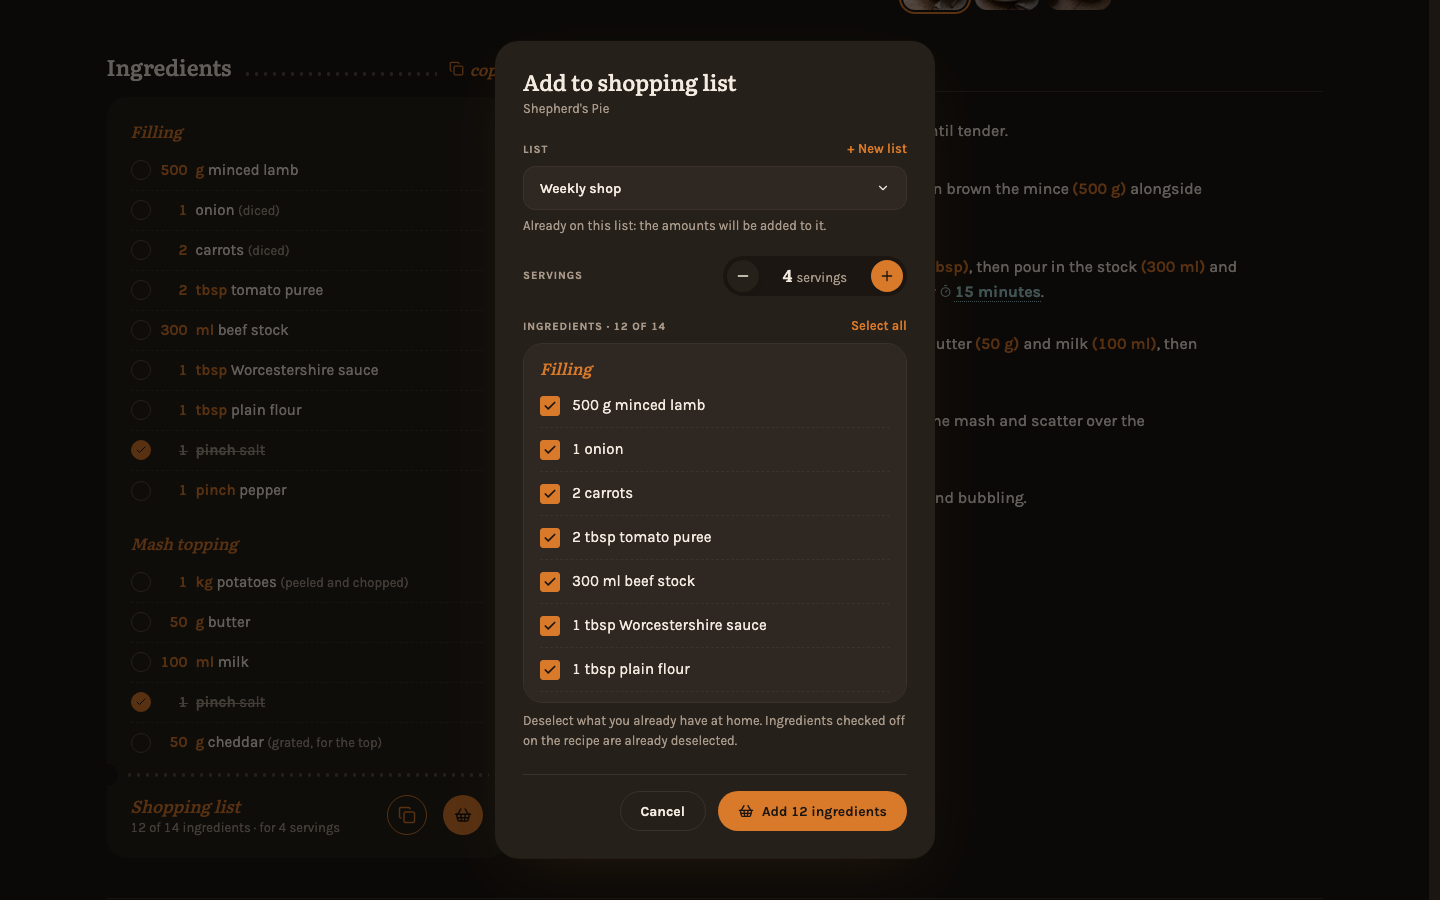
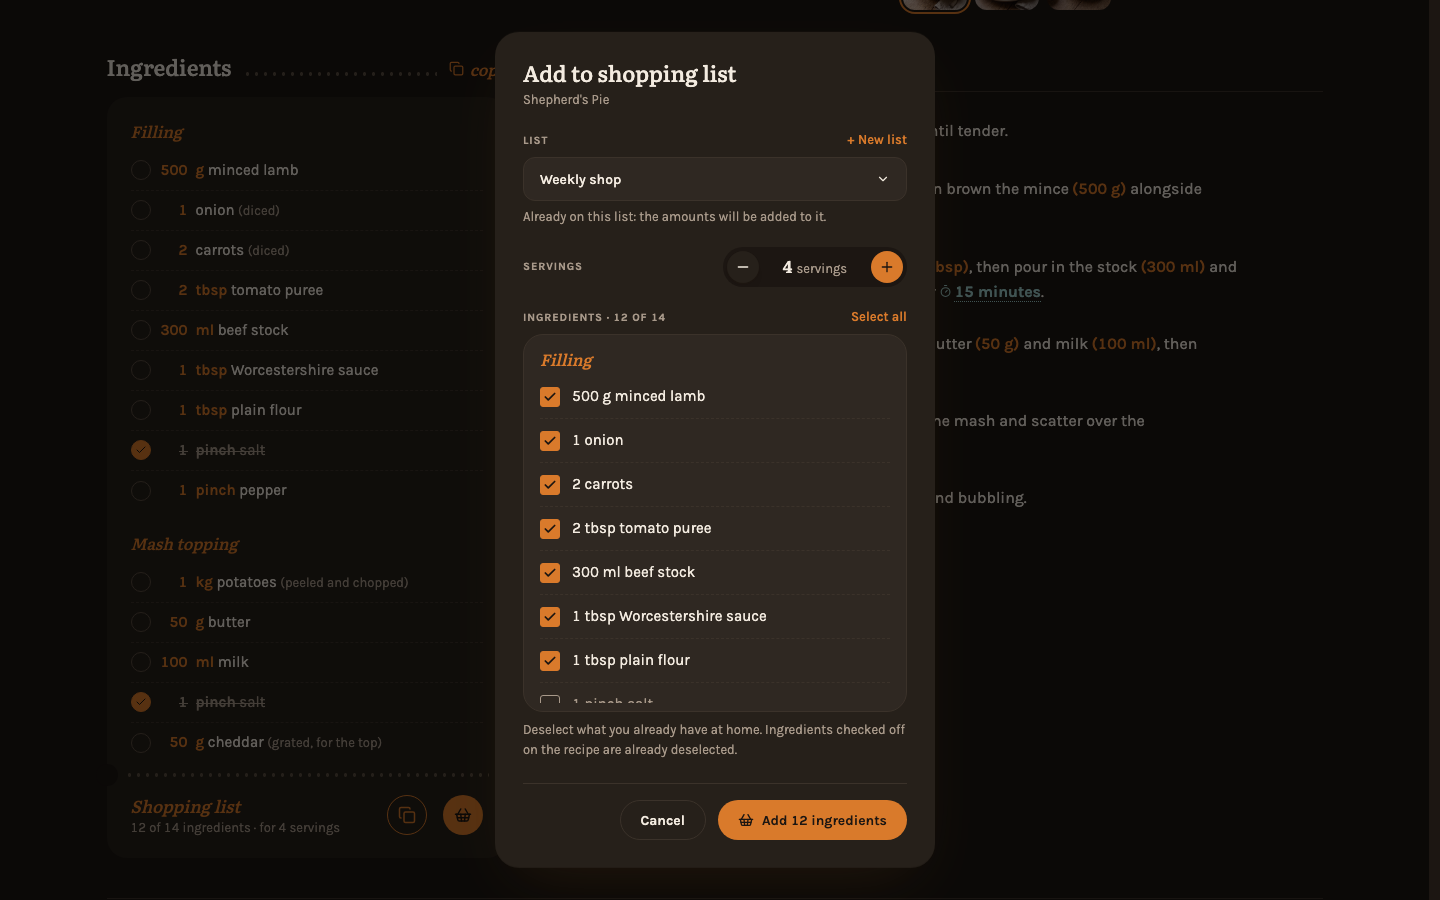
fix(ui): keep scrollbars inside rounded boxes
A rounded box that scrolled itself drew its scrollbar straight through
the corners. Dialogs, suggestion lists, the add-to-list ingredients and
the timer panels now clip in a rounded frame and scroll inside it.

diff --git a/frontend/src/lib/components/editor/TagInput.svelte b/frontend/src/lib/components/editor/TagInput.svelte
@@ -181,42 +181,48 @@
 			{/if}
 		</div>
 		{#if listboxOpen}
-			<ul
-				id="{id}-listbox"
-				role="listbox"
-				aria-label={m.editor_tag_suggestions()}
-				onpointerdown={(event) => {
-					// Keeps focus in the field so `onblur` doesn't commit the
-					// half-typed text before the option's handler runs. On the
-					// list itself, so its padding and scrollbar are covered too.
-					event.preventDefault();
-				}}
-				class="absolute inset-x-0 top-full z-30 mt-1 max-h-64 overflow-y-auto rounded-2xl border border-popover-border bg-popover p-1.5 shadow-dialog"
+			<!-- The frame is rounded and clips; the list scrolls inside its padding,
+			     so its scrollbar runs on the straight part of the edge (as SearchBar). -->
+			<div
+				class="absolute inset-x-0 top-full z-30 mt-1 overflow-hidden rounded-2xl border border-popover-border bg-popover px-1.5 py-2 shadow-dialog"
 			>
-				{#each rows as row, index (row.isNew ? `new:${row.name}` : row.name)}
-					<!-- The keys belong to the field, which drives the options through
-					     aria-activedescendant; the click is the pointer's way in. It
-					     waits for the click because a swipe through the list never
-					     produces one. -->
-					<!-- svelte-ignore a11y_click_events_have_key_events -->
-					<li
-						id="{id}-option-{index}"
-						role="option"
-						aria-selected={index === highlighted}
-						onclick={() => add(row.name)}
-						class="flex h-10 cursor-pointer items-center rounded-sm px-3 text-body-sm {index ===
-						highlighted
-							? 'bg-background font-semibold'
-							: ''}"
-					>
-						{#if row.isNew}
-							<span class="text-text-muted">{m.editor_tag_create({ name: row.name })}</span>
-						{:else}
-							{row.name}
-						{/if}
-					</li>
-				{/each}
-			</ul>
+				<ul
+					id="{id}-listbox"
+					role="listbox"
+					aria-label={m.editor_tag_suggestions()}
+					onpointerdown={(event) => {
+						// Keeps focus in the field so `onblur` doesn't commit the
+						// half-typed text before the option's handler runs. On the
+						// list itself, so its scrollbar is covered too.
+						event.preventDefault();
+					}}
+					class="max-h-60 overflow-y-auto overscroll-contain"
+				>
+					{#each rows as row, index (row.isNew ? `new:${row.name}` : row.name)}
+						<!-- The keys belong to the field, which drives the options through
+						     aria-activedescendant; the click is the pointer's way in. It
+						     waits for the click because a swipe through the list never
+						     produces one. -->
+						<!-- svelte-ignore a11y_click_events_have_key_events -->
+						<li
+							id="{id}-option-{index}"
+							role="option"
+							aria-selected={index === highlighted}
+							onclick={() => add(row.name)}
+							class="flex h-10 cursor-pointer items-center rounded-sm px-3 text-body-sm {index ===
+							highlighted
+								? 'bg-background font-semibold'
+								: ''}"
+						>
+							{#if row.isNew}
+								<span class="text-text-muted">{m.editor_tag_create({ name: row.name })}</span>
+							{:else}
+								{row.name}
+							{/if}
+						</li>
+					{/each}
+				</ul>
+			</div>
 		{/if}
 	</div>
 	{#if error}

diff --git a/frontend/src/lib/components/shopping/AddToListDialog.svelte b/frontend/src/lib/components/shopping/AddToListDialog.svelte
@@ -238,39 +238,42 @@
 					{allPicked() ? m.add_to_list_select_none() : m.add_to_list_select_all()}
 				</button>
 			</div>
-			<div
-				class="rounded-2xl border border-border bg-surface-elevated px-4 py-2 md:max-h-[40dvh] md:overflow-y-auto"
-			>
-				{#each groups as group, g (g)}
-					{#if group.name}
-						<h3
-							class="mt-3 mb-1 font-display text-[16px] font-medium text-primary italic first:mt-1"
-						>
-							{group.name}
-						</h3>
-					{/if}
-					{#each group.ingredients as ingredient, i (i)}
-						{@const key = pickKey(g, i)}
-						{@const on = picked.has(key)}
-						<label
-							class="flex min-h-11 cursor-pointer items-start gap-3 border-b border-dashed border-border py-2.5 text-body last:border-b-0 {on
-								? 'text-text'
-								: 'text-text-muted'}"
-						>
-							<span class="mt-[calc((1lh_-_20px)/2)] flex">
-								<Checkbox
-									bind:checked={() => on, (v) => (v ? picked.add(key) : picked.delete(key))}
-									label={ingredient.name}
-								/>
-							</span>
-							<span class="min-w-0 break-words">
-								{formatQuantityFor(ingredient.quantity, baseServings, chosen)}
-								{ingredient.unit ?? ''}
-								{ingredient.name}
-							</span>
-						</label>
+			<!-- The frame is rounded and clips; on a computer the ingredients scroll
+			     inside its padding, so the scrollbar runs on the straight part of the
+			     edge (as SearchBar's list). -->
+			<div class="overflow-hidden rounded-2xl border border-border bg-surface-elevated px-1.5 py-2">
+				<div class="px-2.5 md:max-h-[40dvh] md:overflow-y-auto md:overscroll-contain">
+					{#each groups as group, g (g)}
+						{#if group.name}
+							<h3
+								class="mt-3 mb-1 font-display text-[16px] font-medium text-primary italic first:mt-1"
+							>
+								{group.name}
+							</h3>
+						{/if}
+						{#each group.ingredients as ingredient, i (i)}
+							{@const key = pickKey(g, i)}
+							{@const on = picked.has(key)}
+							<label
+								class="flex min-h-11 cursor-pointer items-start gap-3 border-b border-dashed border-border py-2.5 text-body last:border-b-0 {on
+									? 'text-text'
+									: 'text-text-muted'}"
+							>
+								<span class="mt-[calc((1lh_-_20px)/2)] flex">
+									<Checkbox
+										bind:checked={() => on, (v) => (v ? picked.add(key) : picked.delete(key))}
+										label={ingredient.name}
+									/>
+								</span>
+								<span class="min-w-0 break-words">
+									{formatQuantityFor(ingredient.quantity, baseServings, chosen)}
+									{ingredient.unit ?? ''}
+									{ingredient.name}
+								</span>
+							</label>
+						{/each}
 					{/each}
-				{/each}
+				</div>
 			</div>
 			<p class="mt-2 text-caption text-text-muted">{m.add_to_list_hint()}</p>
 		</div>

diff --git a/frontend/src/lib/components/timer/TimerDock.svelte b/frontend/src/lib/components/timer/TimerDock.svelte
@@ -80,13 +80,18 @@
 		<!-- Below `md` the panel on `user-teal`, the capsule's own color, only
 		     while expanded; from `md` the bare rows, two side by side, always -
 		     one alone as wide as the footer under it. Expanding unfolds it
-		     upward where the capsule was; the always-open rows stay still. -->
+		     upward where the capsule was; the always-open rows stay still.
+		     The rounded panel clips and the rows scroll inside its padding, so a
+		     scrollbar runs on the straight part of the edge (as SearchBar's
+		     list); from `md` the inner box is `contents` and the rows wrap in
+		     the panel itself. The head stays outside the scroll, so it stays in
+		     view and its button's focus ring has the panel's padding. -->
 		<div
 			class="{expanded
 				? 'flex max-md:origin-bottom max-md:motion-safe:animate-unfold'
-				: 'hidden'} max-h-[40dvh] w-full max-w-[392px] flex-col gap-2 overflow-y-auto rounded-3xl bg-user-teal px-2 pt-1.5 pb-2 md:flex md:max-h-none md:max-w-[760px] md:flex-row md:flex-wrap md:justify-center md:overflow-visible md:bg-transparent md:p-0"
+				: 'hidden'} max-h-[40dvh] w-full max-w-[392px] flex-col gap-2 overflow-hidden rounded-3xl bg-user-teal p-2 md:flex md:max-h-none md:max-w-[760px] md:flex-row md:flex-wrap md:justify-center md:overflow-visible md:bg-transparent md:p-0"
 		>
-			<div class="flex items-center justify-between pl-2.5 md:hidden">
+			<div class="-mt-0.5 flex items-center justify-between pl-2.5 md:hidden">
 				<p class="text-caption font-semibold text-time-foreground">
 					{list.length === 1 ? m.timer_count_one() : m.timer_count({ count: list.length })}
 				</p>
@@ -101,16 +106,18 @@
 					<ChevronDown class="size-[18px]" aria-hidden="true" />
 				</button>
 			</div>
-			{#each list as t (t.id)}
-				<div class={list.length === 1 ? 'md:w-full md:max-w-[392px]' : 'md:w-[calc(50%-4px)]'}>
-					<TimerRow
-						timer={t}
-						now={timers.now}
-						showRecipe={t.recipeId !== recipeId}
-						onopen={() => onopen(t)}
-					/>
-				</div>
-			{/each}
+			<div class="flex min-h-0 flex-col gap-2 overflow-y-auto overscroll-contain md:contents">
+				{#each list as t (t.id)}
+					<div class={list.length === 1 ? 'md:w-full md:max-w-[392px]' : 'md:w-[calc(50%-4px)]'}>
+						<TimerRow
+							timer={t}
+							now={timers.now}
+							showRecipe={t.recipeId !== recipeId}
+							onopen={() => onopen(t)}
+						/>
+					</div>
+				{/each}
+			</div>
 		</div>
 		{#if pushUnavailable()}
 			<p data-push-unavailable class="text-center text-caption text-text-muted">

diff --git a/frontend/src/lib/components/editor/UnitInput.svelte b/frontend/src/lib/components/editor/UnitInput.svelte
@@ -170,35 +170,41 @@
 		/>
 	</button>
 	{#if listboxOpen}
-		<ul
-			id="{id}-listbox"
-			role="listbox"
-			aria-label={m.editor_unit_suggestions()}
-			onpointerdown={(event) => {
-				// Keeps the focus in the field, so the list does not close
-				// under the finger. The pick waits for the click, which a swipe
-				// through the list never produces.
-				event.preventDefault();
-			}}
-			class="absolute inset-x-0 top-full z-30 mt-1 max-h-64 overflow-y-auto rounded-2xl border border-popover-border bg-popover p-1.5 shadow-dialog"
+		<!-- The frame is rounded and clips; the list scrolls inside its padding,
+		     so its scrollbar runs on the straight part of the edge (as SearchBar). -->
+		<div
+			class="absolute inset-x-0 top-full z-30 mt-1 overflow-hidden rounded-2xl border border-popover-border bg-popover px-1.5 py-2 shadow-dialog"
 		>
-			{#each options as unit, index (unit)}
-				<!-- The keys belong to the field, which drives the options through
-				     aria-activedescendant; the click is the pointer's way in. -->
-				<!-- svelte-ignore a11y_click_events_have_key_events -->
-				<li
-					id="{id}-option-{index}"
-					role="option"
-					aria-selected={index === highlighted}
-					onclick={() => pick(unit)}
-					class="flex h-10 cursor-pointer items-center rounded-sm px-3 text-body-sm {index ===
-					highlighted
-						? 'bg-background font-semibold'
-						: ''}"
-				>
-					{unit}
-				</li>
-			{/each}
-		</ul>
+			<ul
+				id="{id}-listbox"
+				role="listbox"
+				aria-label={m.editor_unit_suggestions()}
+				onpointerdown={(event) => {
+					// Keeps the focus in the field, so the list does not close
+					// under the finger. The pick waits for the click, which a swipe
+					// through the list never produces.
+					event.preventDefault();
+				}}
+				class="max-h-60 overflow-y-auto overscroll-contain"
+			>
+				{#each options as unit, index (unit)}
+					<!-- The keys belong to the field, which drives the options through
+					     aria-activedescendant; the click is the pointer's way in. -->
+					<!-- svelte-ignore a11y_click_events_have_key_events -->
+					<li
+						id="{id}-option-{index}"
+						role="option"
+						aria-selected={index === highlighted}
+						onclick={() => pick(unit)}
+						class="flex h-10 cursor-pointer items-center rounded-sm px-3 text-body-sm {index ===
+						highlighted
+							? 'bg-background font-semibold'
+							: ''}"
+					>
+						{unit}
+					</li>
+				{/each}
+			</ul>
+		</div>
 	{/if}
 </div>

diff --git a/frontend/src/lib/components/ui/BaseDialog.svelte b/frontend/src/lib/components/ui/BaseDialog.svelte
@@ -60,15 +60,24 @@
 					     A word longer than the line ("Einrichtungslink" at 200% text on
 					     a phone) breaks instead of scrolling the dialog sideways; the
 					     title (Dialog.Title is an h2) hyphenates, a button's label
-					     never does ("Ko-pie-ren"). -->
+					     never does ("Ko-pie-ren").
+					     The rounded box clips and its contents scroll inside its
+					     padding, so a scrollbar runs on the straight part of the edge
+					     (as SearchBar's list): 12px down the 24px corner curves 3px
+					     in, which the 6px side clears. The padding is split between
+					     the two, 20px (28px from md) in all. -->
 					<div
 						{...props}
-						class="fixed top-1/2 left-1/2 z-50 max-h-[calc(100dvh-2rem)] w-[calc(100%-2rem)] {wide
+						class="fixed top-1/2 left-1/2 z-50 flex max-h-[calc(100dvh-2rem)] w-[calc(100%-2rem)] {wide
 							? 'max-w-[720px]'
-							: 'max-w-[440px]'} -translate-x-1/2 -translate-y-1/2 overflow-y-auto overscroll-contain rounded-3xl bg-surface p-5 wrap-break-word shadow-dialog md:p-7 [&_h2]:hyphens-auto"
+							: 'max-w-[440px]'} -translate-x-1/2 -translate-y-1/2 flex-col overflow-hidden rounded-3xl bg-surface px-1.5 py-3 shadow-dialog"
 						transition:scale={{ duration, start: 0.95 }}
 					>
-						{@render children()}
+						<div
+							class="min-h-0 overflow-y-auto overscroll-contain px-3.5 py-2 wrap-break-word md:px-[22px] md:py-4 [&_h2]:hyphens-auto"
+						>
+							{@render children()}
+						</div>
 					</div>
 				{/if}
 			{/snippet}

diff --git a/frontend/src/lib/components/timer/TimerIndicator.svelte b/frontend/src/lib/components/timer/TimerIndicator.svelte
@@ -161,19 +161,23 @@
 				</button>
 			{/if}
 		</div>
+		<!-- The rounded panel clips; the rows scroll inside its padding, so a
+		     scrollbar runs on the straight part of the edge (as SearchBar's list). -->
 		<div
 			id="timer-panel"
 			class="{open
 				? 'flex origin-bottom motion-safe:animate-unfold'
-				: 'hidden'} max-h-[min(70dvh,560px)] flex-col gap-2 overflow-y-auto overscroll-contain rounded-3xl bg-user-teal p-2 shadow-lift md:w-[400px]"
+				: 'hidden'} max-h-[min(70dvh,560px)] flex-col overflow-hidden rounded-3xl bg-user-teal p-2 shadow-lift md:w-[400px]"
 		>
-			{#each list as t (t.id)}
-				{#if t.state === 'ringing'}
-					<TimerBanner timer={t} showRecipe />
-				{:else}
-					<TimerRow timer={t} now={timers.now} showRecipe link />
-				{/if}
-			{/each}
+			<div class="flex min-h-0 flex-col gap-2 overflow-y-auto overscroll-contain">
+				{#each list as t (t.id)}
+					{#if t.state === 'ringing'}
+						<TimerBanner timer={t} showRecipe />
+					{:else}
+						<TimerRow timer={t} now={timers.now} showRecipe link />
+					{/if}
+				{/each}
+			</div>
 		</div>
 	</div>
 {/if}
